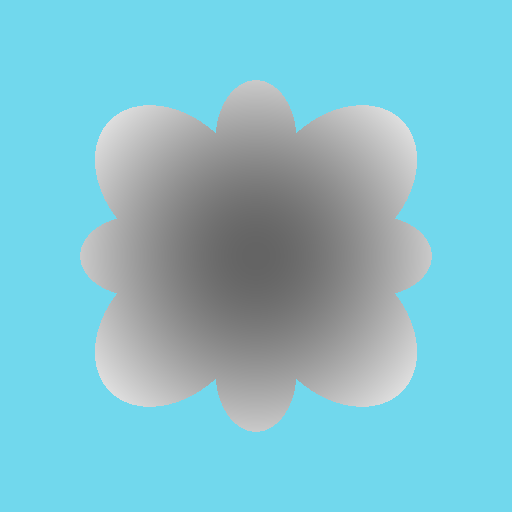
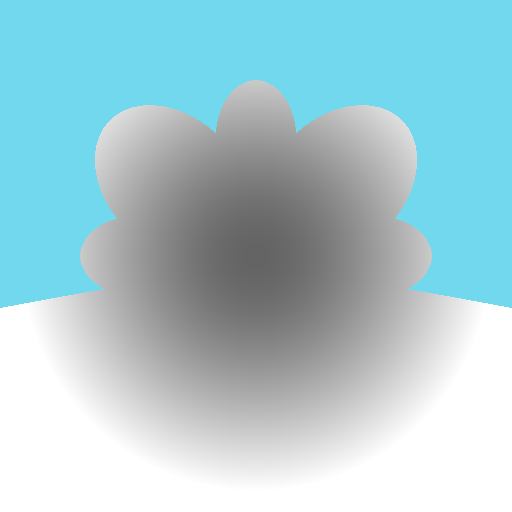
changes

Changed region(s): [[0.0, 0.5625, 1.0, 1.0]]

diff --git a/src/App.java b/src/App.java
@@ -12,25 +12,22 @@ class App {
         HashSet<Geometry> geometries = new HashSet<>();
         geometries.add(new Sphere(new Point(0, 0, 200), 150));
 
-        geometries.add(new Plane(new Vector(0, 0, 100), new Point(0, -100, 0)));
+        geometries.add(new Plane(new Vector(0, 100, 0), new Point(0, -200, 100)));
 
-        geometries.add(new Sphere(new Point( 200, 000, 100), 75));
-        geometries.add(new Sphere(new Point(-200, 000, 100), 75));
-        geometries.add(new Sphere(new Point( 000, 200, 100), 75));
-        geometries.add(new Sphere(new Point( 000,-200, 100), 75));
+        geometries.add(new Sphere(new Point( 200, 000, 200), 100));
+        geometries.add(new Sphere(new Point(-200, 000, 200), 100));
+        geometries.add(new Sphere(new Point( 000,-200, 200), 100));
 
-        geometries.add(new Plane(new Vector( 90, 45, 90), new Point( 100, 100, 100), 120));
-        geometries.add(new Plane(new Vector(-90, 45, 90), new Point(-100, 100, 100), 120));
-        geometries.add(new Plane(new Vector( 90,-45, 90), new Point( 100,-100, 100), 120));
-        geometries.add(new Plane(new Vector(-90,-45, 90), new Point(-100,-100, 100), 120));
+        geometries.add(new Plane(new Vector( 90,-45, 90), new Point( 100,-100, 150), 120));
+        geometries.add(new Plane(new Vector(-90,-45, 90), new Point(-100,-100, 150), 120));
 
         // makeImage(size, new ScreenPixelShader());
         // makeImage(size, new ScreenDistanceShader());
         // makeImage(size, new ScreenNormalShader());
 
-        makeImage(size, new DistanceShader(),  geometries);
-        makeImage(size, new NormalShader(),    geometries);
+        // makeImage(size, new DistanceShader(),  geometries);
         makeImage(size, new IntersectShader(), geometries);
+        makeImage(size, new NormalShader(),    geometries);
     }
 
     static void makeImage(int size, Shader shader, HashSet<Geometry> geometries){

diff --git a/src/Plane.java b/src/Plane.java
@@ -2,6 +2,7 @@ class Plane extends Geometry {
     Vector n;
     Point  p;
     double r = 0;
+    static double DRAW_DISTANCE = 1000;
 
     public Plane(Vector normal, Point p) {
         this.n = normal;
@@ -18,13 +19,12 @@ class Plane extends Geometry {
         Point  o = ray.origin();
         Vector d = ray.dir();
         double t = n.dot(p.sub(o)) / n.dot(d);
-        if(t>0){
-            if(r != 0 && 
-                p.sub(o.add(d.mul(t))).mag() < r ){
-                ray.hit(this,t);
-                return true;
-            }
-        } 
+        if( t>0 && (
+            r != 0 && p.sub(o.add(d.mul(t))).mag() < r ||
+            r == 0 && p.sub(o.add(d.mul(t))).mag() < DRAW_DISTANCE )){
+            ray.hit(this,t);
+            return true;
+        }
         return false;
     }
 

diff --git a/src/DistanceShader.java b/src/DistanceShader.java
@@ -2,7 +2,8 @@ public class DistanceShader implements Shader{
 
     @Override
     public Color getColor(Ray ray, Geometry geometry) {
-        double dis = ray.dir().mag();
+        // TODO if there is a hit account for the extra length by scaling by t
+        double dis = ray.dir().mag() ;
         return  geometry.intersect(ray) ? new Color(dis,dis,dis) : null;    
     }
 
